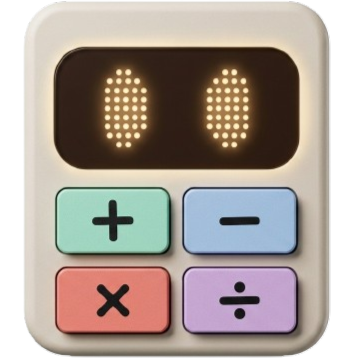
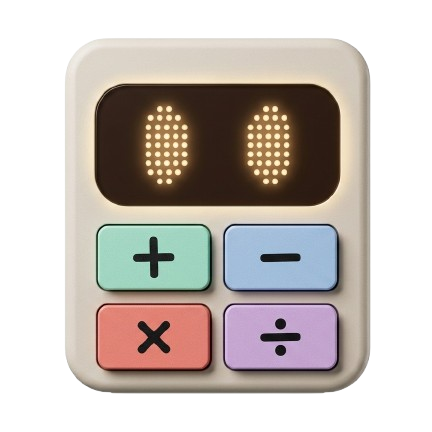
calculator tab fixed
calculator tab fixed

diff --git a/app/(tabs)/calc.tsx b/app/(tabs)/calc.tsx
@@ -14,6 +14,8 @@ const COLORS = {
   white: '#FFFFFF',          // High contrast clean input surface
   cardYellow: '#FEF08A',     // Standout calculator display background
   cardMint: '#A7F3D0',       // Mint background color for action buttons
+  cardCoral: '#FCA5A5',      // High prominence coral fill accent for backspace
+  themeBlue: '#97c6ff',      // Neo-Brutalist Sky Blue matching your theme profile
 };
 
 export default function Calculator() {
@@ -76,6 +78,16 @@ export default function Calculator() {
 
   // Custom Keypad Logic
   const handleKeyPress = (val: string) => {
+    // Helper to guard against multiple decimals in a single input field
+    const currentVal = () => {
+      if (activeField === 'driver') return driver;
+      if (activeField === 'driven') return driven;
+      if (activeField === 'rpm') return rpm;
+      return torque;
+    };
+
+    if (val === '.' && currentVal().includes('.')) return;
+
     if (activeField === 'driver') setDriver((prev) => prev + val);
     if (activeField === 'driven') setDriven((prev) => prev + val);
     if (activeField === 'rpm') setRpm((prev) => prev + val);
@@ -87,6 +99,14 @@ export default function Calculator() {
     if (activeField === 'driven') setDriven((prev) => prev.slice(0, -1));
     if (activeField === 'rpm') setRpm((prev) => prev.slice(0, -1));
     if (activeField === 'torque') setTorque((prev) => prev.slice(0, -1));
+  };
+
+  const handleClearAll = () => {
+    setDriver('');
+    setDriven('');
+    setRpm('');
+    setTorque('');
+    setResult('0.00');
   };
 
   return (
@@ -183,6 +203,16 @@ export default function Calculator() {
             ))}
           </View>
         ))}
+
+        {/* Full-width Neo-Brutalist Blue Clear Action Row */}
+        <View style={styles.keypadRow}>
+          <TouchableOpacity 
+            style={[styles.keyItem, styles.clearKey]} 
+            onPress={handleClearAll}
+          >
+            <Text style={styles.clearKeyText}>CLEAR ALL VALUES</Text>
+          </TouchableOpacity>
+        </View>
       </View>
 
     </ScrollView>
@@ -207,7 +237,7 @@ const styles = StyleSheet.create({
     height: 100,
     borderRadius: 20,
     justifyContent: 'center',
-    alignItems: 'flex-end', // Aligns answers to the right side like desktop layouts
+    alignItems: 'flex-end',
     paddingHorizontal: 24,
     borderWidth: 2.5,
     borderColor: COLORS.inkBlack,
@@ -259,7 +289,7 @@ const styles = StyleSheet.create({
   activeInput: {
     backgroundColor: '#FFFFFF',
     borderColor: COLORS.inkBlack,
-    borderStyle: 'dashed', // Visually indicates which box receives the custom numpad inputs
+    borderStyle: 'dashed',
   },
 
   buttonRow: {
@@ -325,7 +355,14 @@ const styles = StyleSheet.create({
   },
 
   backspaceKey: {
-    backgroundColor: '#FCA5A5', // High prominence coral fill accent for the delete function
+    backgroundColor: COLORS.cardCoral,
+  },
+
+  clearKey: {
+    width: '100%',
+    height: 50,
+    backgroundColor: COLORS.themeBlue, // Transformed background color to blue accent 
+    marginTop: 4,
   },
 
   keyText: {
@@ -336,5 +373,12 @@ const styles = StyleSheet.create({
 
   backspaceText: {
     fontSize: 18,
+  },
+
+  clearKeyText: {
+    fontSize: 14,
+    fontWeight: '900',
+    color: COLORS.inkBlack, // Bold black text over blue surface for premium contrast scaling
+    letterSpacing: 1,
   },
 });